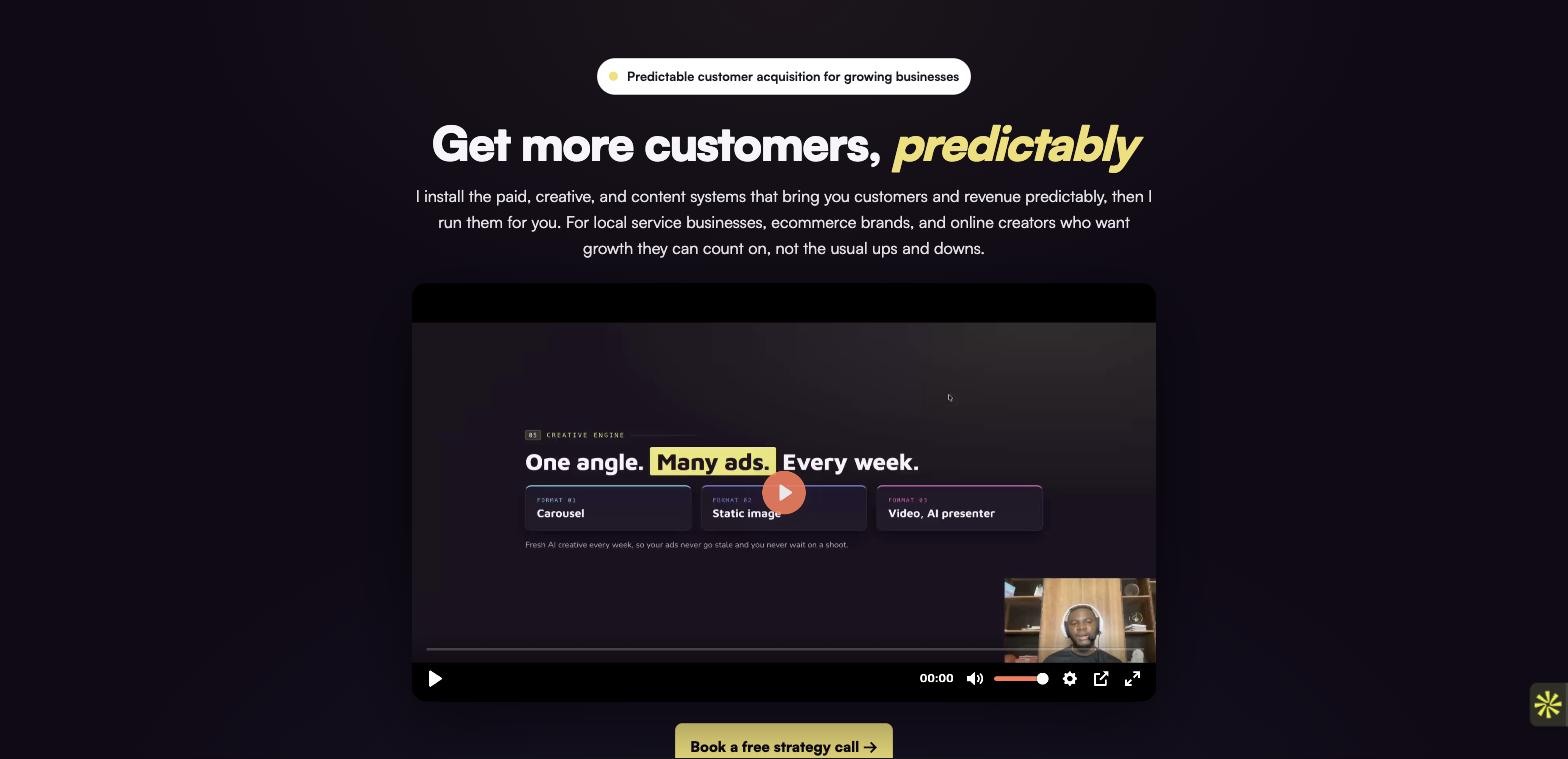
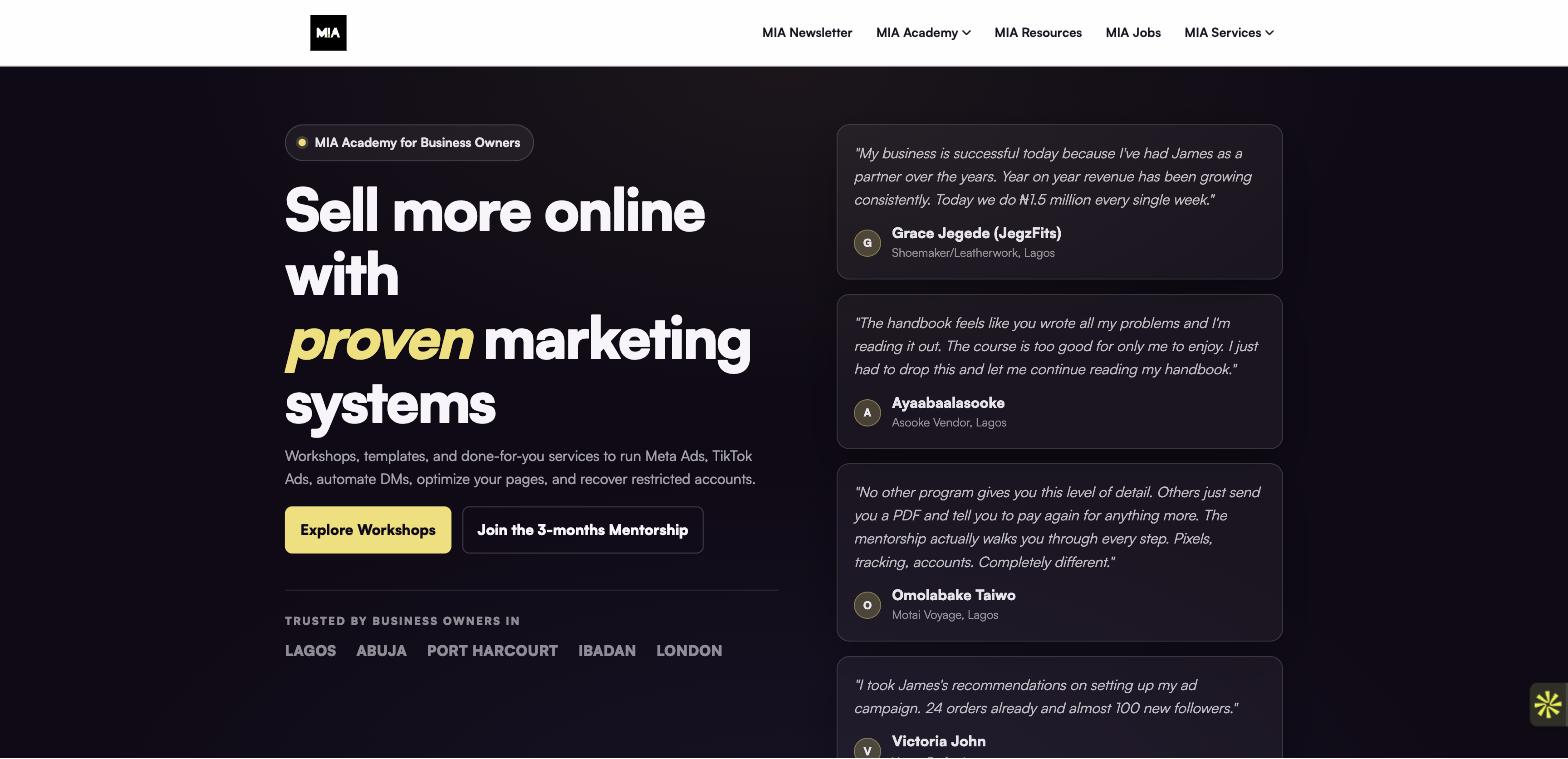
Fix MIA Business screenshot to the real academy/sme page
The acquisition/ page was wrong for MIA Business, that's MIA
Acquisition's own page. MIA Business's actual public page is
academy/sme/, confirmed by James.

Changed region(s): [[0.0, 0.0, 1.0, 1.0], [0.1875, 0.3333, 0.2812, 0.3939]]

diff --git a/work/mia-business/index.html b/work/mia-business/index.html
@@ -70,8 +70,8 @@ height="0" width="0" style="display:none;visibility:hidden"></iframe></noscript>
         <h1 class="cs-headline reveal-blur">Built an operation other people can run, not only work I do myself</h1>
         <p class="cs-subhead reveal-blur">A paid-ads consulting book of business, ten client engagements, delivered to the same standard whether I touch the account myself or a specialist I hired does.</p>
         <div class="cs-shot reveal-blur">
-          <div class="cs-shot-bar"><span class="cs-shot-dot"></span><span class="cs-shot-dot"></span><span class="cs-shot-dot"></span><span class="cs-shot-url">marketinginaction.xyz/acquisition</span></div>
-          <img class="cs-shot-img" src="/assets/images/case-studies/mia-business/website.jpg" alt="MIA's Paid Acquisition service page" />
+          <div class="cs-shot-bar"><span class="cs-shot-dot"></span><span class="cs-shot-dot"></span><span class="cs-shot-dot"></span><span class="cs-shot-url">marketinginaction.xyz/academy/sme</span></div>
+          <img class="cs-shot-img" src="/assets/images/case-studies/mia-business/website.jpg" alt="MIA Academy for Business Owners, the public page for MIA Business" />
         </div>
         <div class="cs-stats">
           <div class="cs-stat reveal-blur card-lift"><strong>10</strong><span>client engagements on file</span></div>
